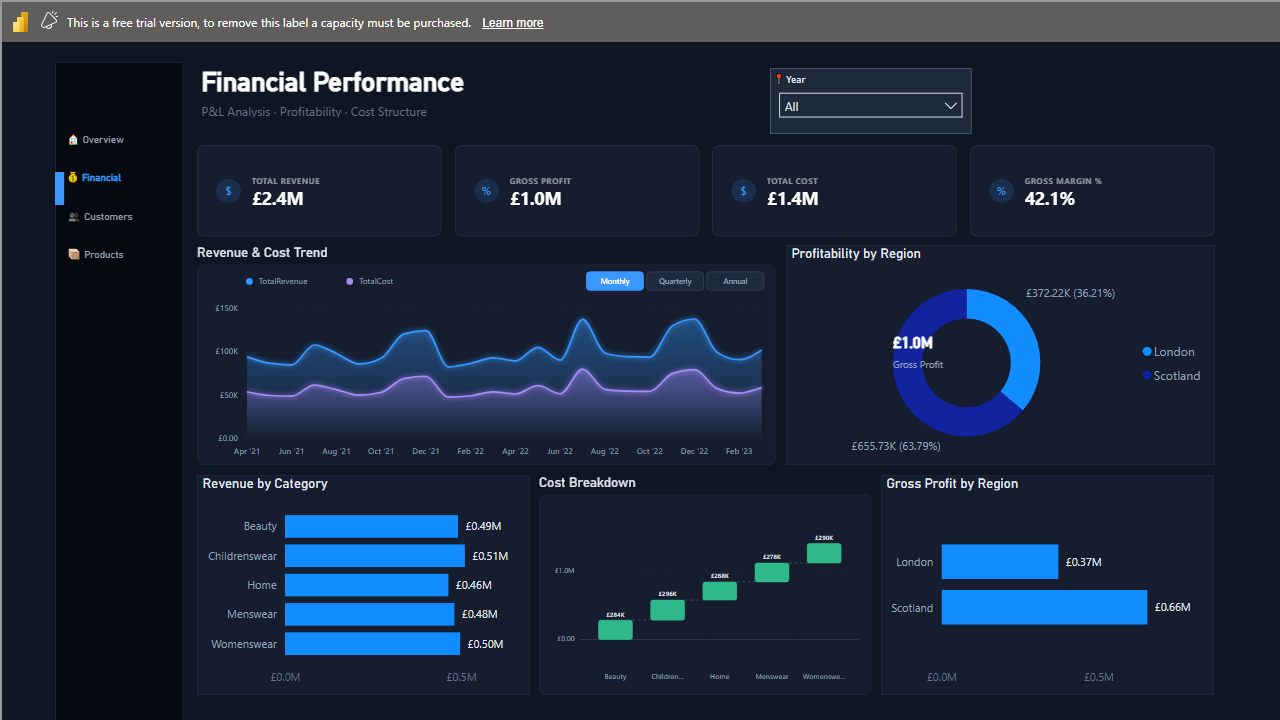
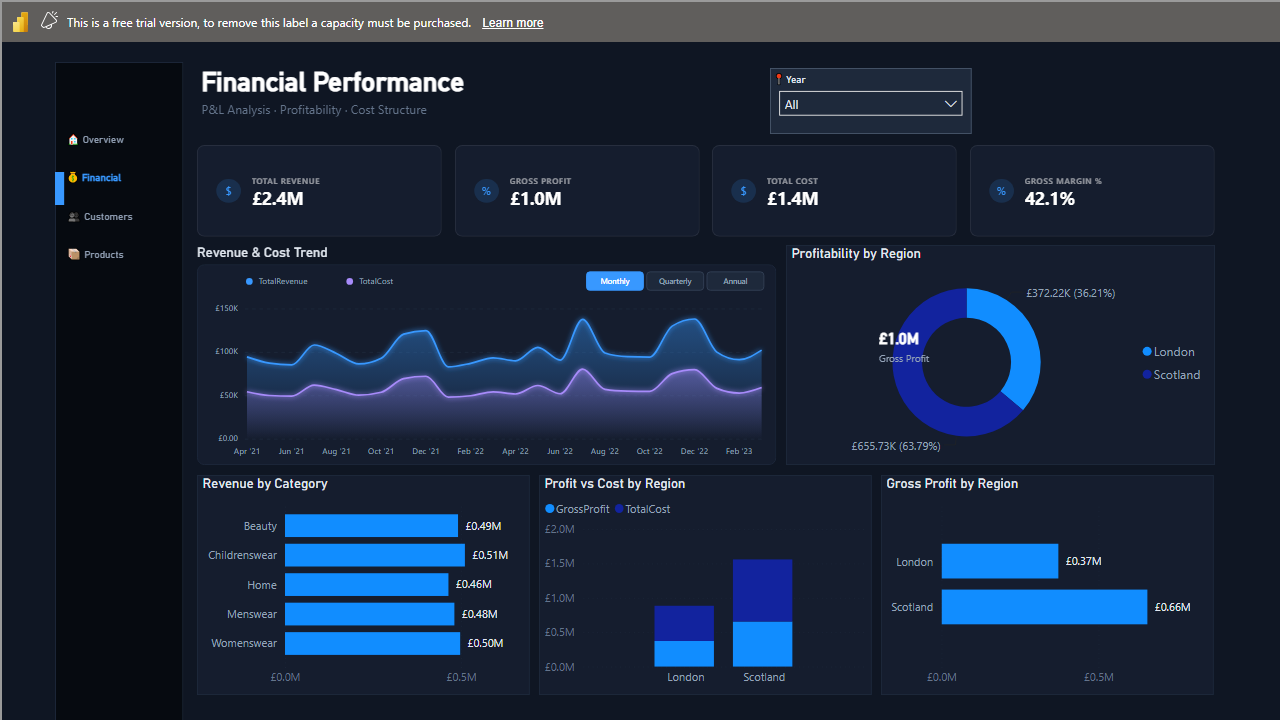
fix(08): dark page background, column chart replaces waterfall, centered donut KPI, template fixes

diff --git a/src/pbi_gen/renderer/templates/builder.py b/src/pbi_gen/renderer/templates/builder.py
@@ -238,6 +238,22 @@ def _build_native_objects(
             "color": _solid_color_expr(tokens.text_muted),
         }}]
 
+    elif visual_type == "columnChart":
+        objects["legend"] = [{"properties": {
+            "show": _literal("true"),
+            "showTitle": _literal("false"),
+            "labelColor": _solid_color_expr(tokens.text_muted),
+        }}]
+        objects["categoryAxis"] = [{"properties": {
+            "showAxisTitle": _literal("false"),
+            "labelColor": _solid_color_expr(tokens.text_muted),
+        }}]
+        objects["valueAxis"] = [{"properties": {
+            "showAxisTitle": _literal("false"),
+            "labelColor": _solid_color_expr(tokens.text_subtle),
+            "gridlineColor": _solid_color_expr(tokens.border),
+        }}]
+
     elif visual_type == "tableEx":
         objects["grid"] = [{"properties": {
             "gridVertical": _literal("false"),
@@ -655,8 +671,8 @@ class PageBuilder(BaseModel):
             "width": self.shell.width,
             "objects": {
                 "background": [{"properties": {
-                    "color": {"solid": {"color": _literal(f"'{self.tokens.canvas}'")["expr"]}},
-                    "transparency": _literal("0D")["expr"],
+                    "color": _solid_color_expr(self.tokens.canvas),
+                    "transparency": _literal("0D"),
                 }}],
             },
         })

diff --git a/src/pbi_gen/renderer/templates/financial_config.py b/src/pbi_gen/renderer/templates/financial_config.py
@@ -154,8 +154,8 @@ def financial_visual_bindings() -> list[VisualBinding]:
     )
 
     # Donut center KPI overlay (uses cardVisual title, not premiumKPI)
-    donut_kpi_x = mid_x2 + int(_MID_COL2_W * 0.25)
-    donut_kpi_y = _MID_ROW_Y + int(_MID_ROW_HEIGHT * 0.40)
+    donut_kpi_x = mid_x2 + int(_MID_COL2_W * 0.22)
+    donut_kpi_y = _MID_ROW_Y + int(_MID_ROW_HEIGHT * 0.38)
     bindings.append(
         VisualBinding(
             template_id="donut_center_kpi",
@@ -194,18 +194,18 @@ def financial_visual_bindings() -> list[VisualBinding]:
         )
     )
 
-    # Expense Breakdown (waterfall)
+    # Profit vs Cost by Region (column chart - multi-measure for color variety)
     bot_x2 = bot_x1 + _BOT_COL_W + _BOT_GAP
     bindings.append(
         VisualBinding(
-            template_id="premium_waterfall",
-            title="Cost Breakdown",
+            template_id="premium_column",
+            title="Profit vs Cost by Region",
             data_bindings={
-                "category": [_CATEGORY_NAME],
-                "values": [_TOTAL_COST],
+                "category": [_REGION_NAME],
+                "values": [_GROSS_PROFIT, _TOTAL_COST],
             },
             position=(bot_x2, _BOT_ROW_Y, _BOT_COL_W, _BOT_ROW_HEIGHT),
-            config_overrides={},
+            config_overrides={"show_legend": True},
         )
     )
 

diff --git a/src/pbi_gen/renderer/templates/registry.py b/src/pbi_gen/renderer/templates/registry.py
@@ -265,6 +265,21 @@ class TemplateRegistry(BaseModel):
             description="Horizontal bar chart with dark styling and data labels.",
         )
 
+        # premium_column — native column chart with premium styling
+        templates["premium_column"] = VisualTemplate(
+            template_id="premium_column",
+            visual_type="columnChart",
+            data_roles=[
+                DataRole(name="category", kind="Grouping", display_name="Category", required=True),
+                DataRole(name="values", kind="Measure", display_name="Values", required=True),
+            ],
+            default_width=365,
+            default_height=240,
+            supports_cross_filter=True,
+            supports_tooltips=True,
+            description="Vertical column chart with dark styling and legend.",
+        )
+
         # premium_donut — native donut chart
         templates["premium_donut"] = VisualTemplate(
             template_id="premium_donut",
